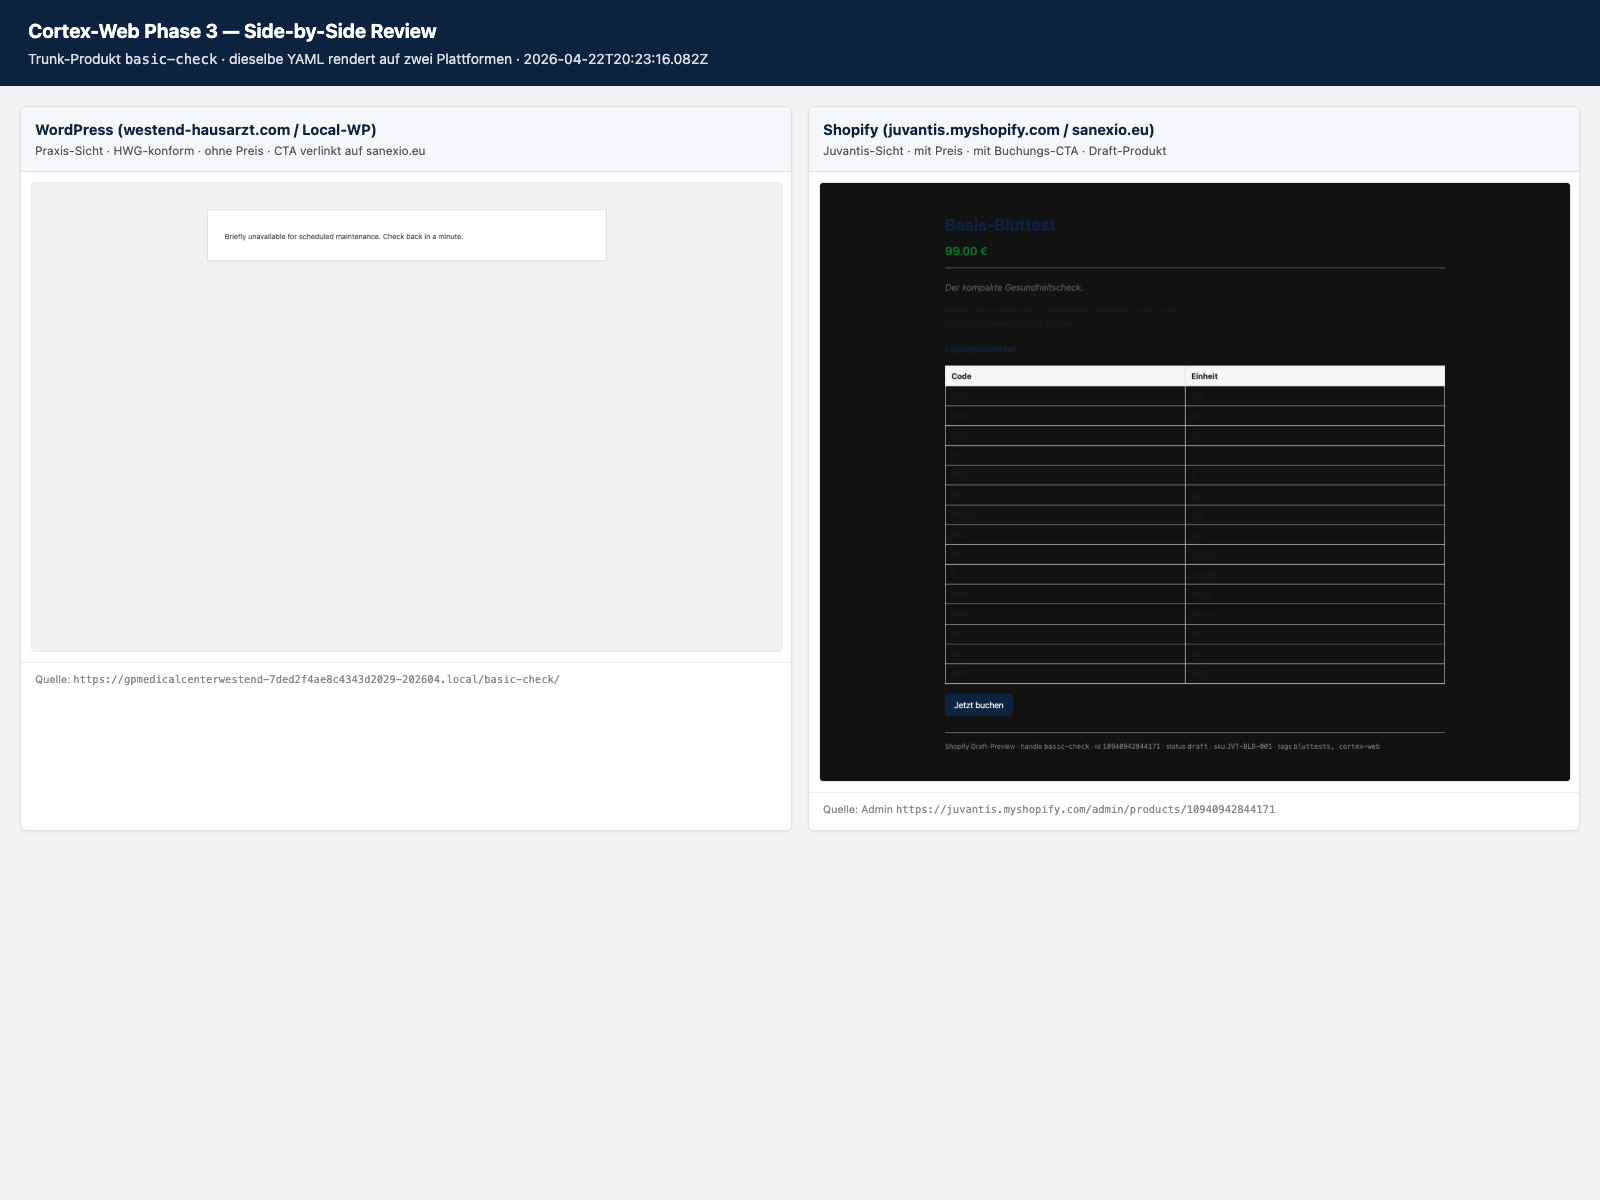
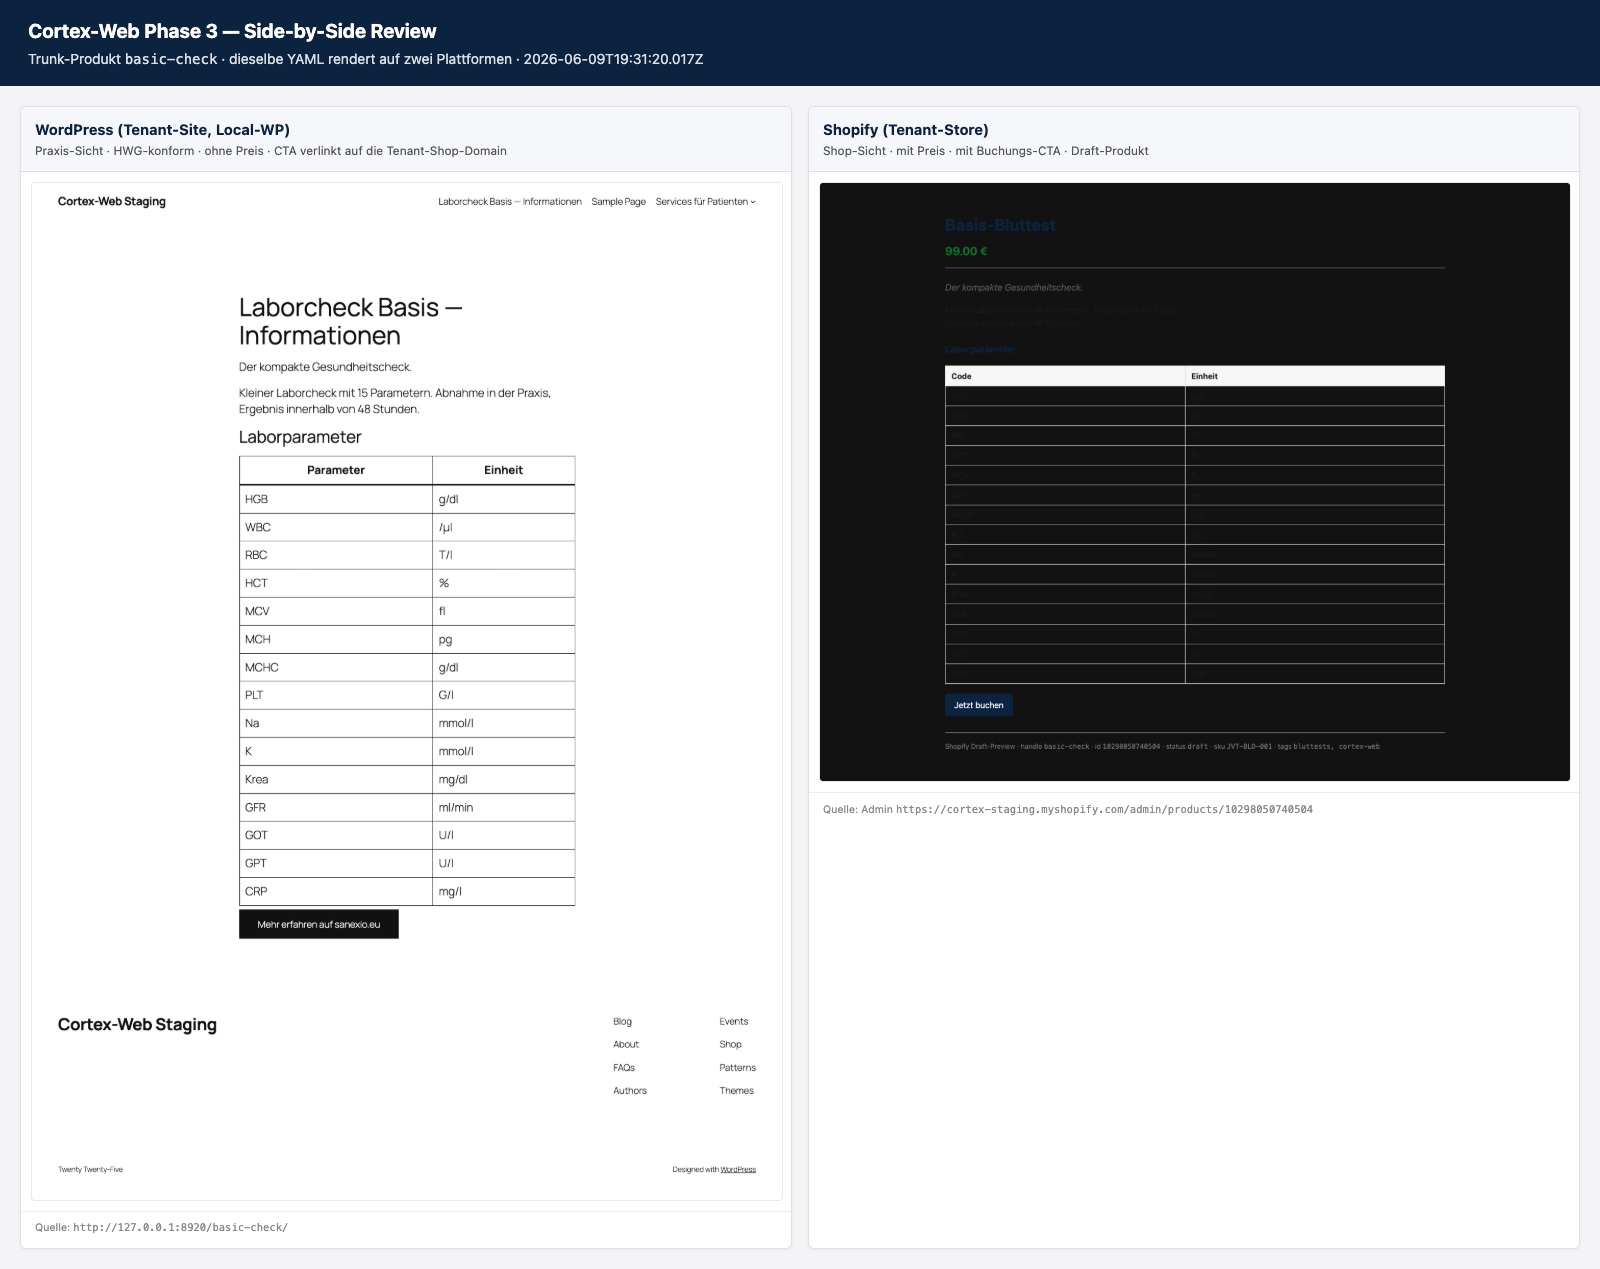
verify(staging): Pipeline gegen Staging verifiziert + Theme-ID-Resolver
Codex-Verifikation (22/22 Tools gegen lokale WP :8920 + Shopify Dev-Store
cortex-staging): WP- und Shopify-Pipelines (Produkt/Page/Diff/Extract/
Review) grün, review.sh 11/11 AK.

- Neu: adapters/shopify/lib/theme-id.mjs — Theme-ID-Auflösung
  SHOPIFY_THEME_ID > tenant.config shop/shopify.theme_id > live role=main.
- template-to-shopify/diff-template/extract-template nutzen den Resolver
  (behebt Prod-Theme-ID-404; tenant.config unverändert).
- Bekannt: Theme-Asset-WRITE bleibt durch Shopify-Theme-File-Write-Exemption
  blockiert (Plattform-Beschränkung, token-unabhängig) — Diagnose eindeutig.
- specs/phase-3/evidence: aktualisierte Review-Belege.

diff --git a/specs/phase-3/evidence/side-by-side.html b/specs/phase-3/evidence/side-by-side.html
@@ -18,24 +18,24 @@
 </style></head><body>
 <header>
   <h1>Cortex-Web Phase 3 — Side-by-Side Review</h1>
-  <p>Trunk-Produkt <code>basic-check</code> &middot; dieselbe YAML rendert auf zwei Plattformen &middot; 2026-04-22T20:23:16.082Z</p>
+  <p>Trunk-Produkt <code>basic-check</code> &middot; dieselbe YAML rendert auf zwei Plattformen &middot; 2026-06-09T19:31:20.017Z</p>
 </header>
 <div class="row">
   <div class="col">
     <header>
-      <h2>WordPress (westend-hausarzt.com / Local-WP)</h2>
-      <div class="sub">Praxis-Sicht &middot; HWG-konform &middot; ohne Preis &middot; CTA verlinkt auf sanexio.eu</div>
+      <h2>WordPress (Tenant-Site, Local-WP)</h2>
+      <div class="sub">Praxis-Sicht &middot; HWG-konform &middot; ohne Preis &middot; CTA verlinkt auf die Tenant-Shop-Domain</div>
     </header>
     <div class="shot"><img src="./wp-page-9668.png" alt="WP-Page-Screenshot"></div>
-    <div class="meta">Quelle: <code>https://gpmedicalcenterwestend-7ded2f4ae8c4343d2029-202604.local/basic-check/</code></div>
+    <div class="meta">Quelle: <code>http://127.0.0.1:8920/basic-check/</code></div>
   </div>
   <div class="col">
     <header>
-      <h2>Shopify (juvantis.myshopify.com / sanexio.eu)</h2>
-      <div class="sub">Juvantis-Sicht &middot; mit Preis &middot; mit Buchungs-CTA &middot; Draft-Produkt</div>
+      <h2>Shopify (Tenant-Store)</h2>
+      <div class="sub">Shop-Sicht &middot; mit Preis &middot; mit Buchungs-CTA &middot; Draft-Produkt</div>
     </header>
     <div class="shot"><img src="./shopify-body-preview.png" alt="Shopify body_html Preview"></div>
-    <div class="meta">Quelle: Admin <code>https://juvantis.myshopify.com/admin/products/10940942844171</code></div>
+    <div class="meta">Quelle: Admin <code>https://cortex-staging.myshopify.com/admin/products/10298050740504</code></div>
   </div>
 </div>
 </body></html>